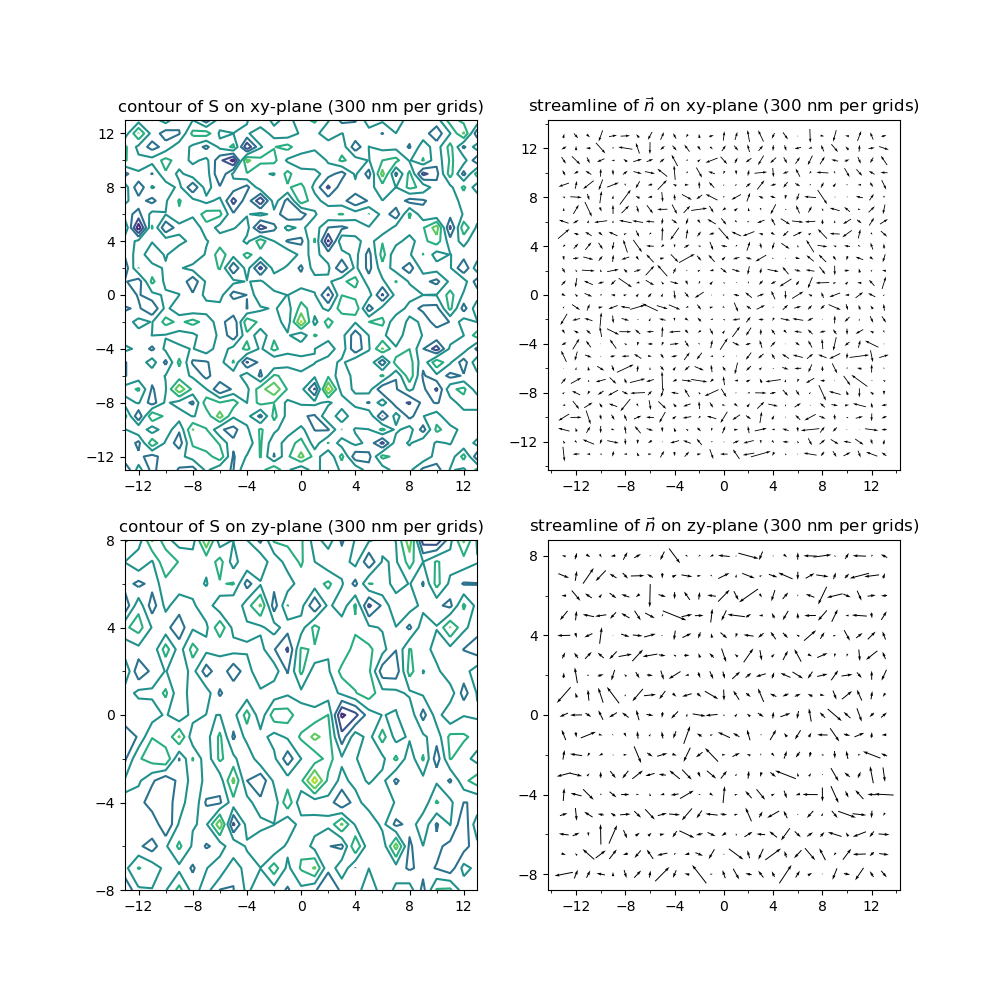
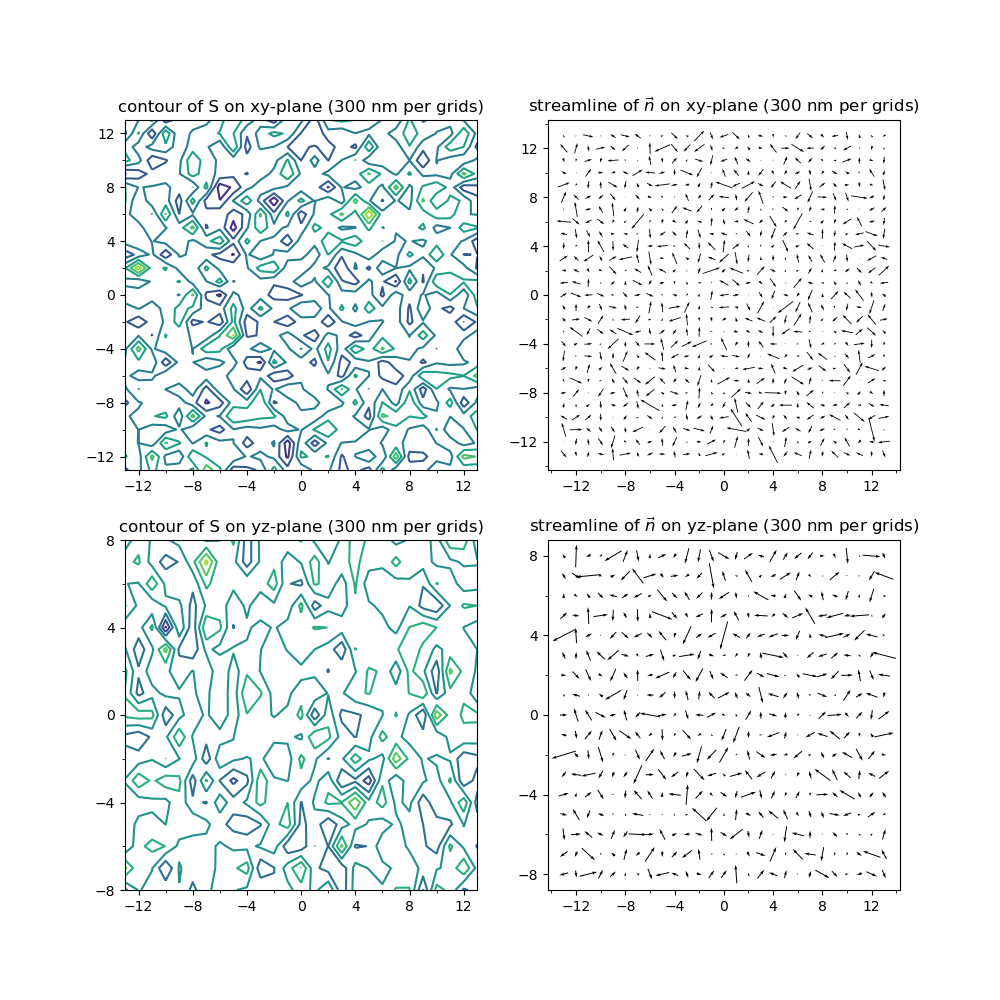
modify LCSample setters, rearange import paths

diff --git a/ldgsim/liqCrystal.py b/ldgsim/liqCrystal.py
@@ -2,12 +2,15 @@ import numpy as np
 import os, sys, time
 from datetime import datetime
 
-sys.path.append(os.path.join(os.path.dirname(__file__), '..'))
-from ldgsim import param as p
+import_path = os.path.join(os.path.dirname(__file__), '..')
+if import_path not in sys.path:
+	sys.path.append(import_path)
+
+from ldgsim import param as prm
 from ldgsim import field
 
 class LCSample(object):
-	def __init__(self, mesh_shape=p.mesh_shape, 
+	def __init__(self, mesh_shape=prm.mesh_shape, 
 				orientation=np.random.randn(3), order_degree=0.5, biaxiality=0):
 
 		self._S = field.ScalarField(np.ones(mesh_shape) * order_degree)
@@ -17,10 +20,10 @@ class LCSample(object):
 		self._Q = field.MatrixField(np.empty((*mesh_shape, 3, 3)))
 		self._h = field.MatrixField(np.empty((*mesh_shape, 3, 3)))
 
-		for i in range(p.z_nog):
-			for j in range(p.y_nog):
-				for k in range(p.x_nog):
-					self._r[i, j, k] = np.asarray([p.axis_z[i], p.axis_y[j], p.axis_x[k]])
+		for i in range(prm.z_nog):
+			for j in range(prm.y_nog):
+				for k in range(prm.x_nog):
+					self._r[i, j, k] = np.asarray([prm.axis_z[i], prm.axis_y[j], prm.axis_x[k]])
 
 	@property
 	def r(self): return self._r
@@ -38,10 +41,8 @@ class LCSample(object):
 	@n.setter
 	def n(self, value):
 		array = np.asarray(value)
-		if array.shape == (3,):
-			self._n[..., :] = array[:]
-		elif array.shape == self.n.shape:
-			self._n = array
+		if array.shape == (3,) or array.shape == self.n.shape:
+			self._n[:] = array
 		else:
 			raise ValueError(f'assign n with invalid shape {value.shape}')
 	
@@ -52,15 +53,15 @@ class LCSample(object):
 		if array.shape == ():
 			if not lb <= value <= ub:
 				raise ValueError(f'assign S with invalid value {value}, not in {[lb, ub]}')
-			self._S[...] = value
+			self._S[:] = value
 		elif array.shape == (1,):
 			if not lb <= value[0] <= ub:
 				raise ValueError(f'assign S with invalid value {value[0]}, not in {[lb, ub]}')
-			self._S[...] = value[0]
+			self._S[:] = value[0]
 		elif array.shape == self.S.shape:
 			if (array < lb).any() or (array > ub).any():
 				raise ValueError(f'assign S with invalid array, not in {[lb, ub]}')
-			self._S = field.ScalarField(array)
+			self._S[:] = array
 		else:
 			raise ValueError(f'assign S with invalid shape {value.shape}')
 	
@@ -71,15 +72,15 @@ class LCSample(object):
 		if array.shape == ():
 			if not lb <= value <= ub:
 				raise ValueError(f'assign P with invalid value {value}, not in {[lb, ub]}')
-			self._P[...] = value
+			self._P[:] = value
 		elif array.shape == (1,):
 			if not lb <= value[0] <= ub:
 				raise ValueError(f'assign P with invalid value {value[0]}, not in {[lb, ub]}')
-			self._P[...] = value[0]
+			self._P[:] = value[0]
 		elif array.shape == self.S.shape:
 			if (array < lb).any() or (array > ub).any():
 				raise ValueError(f'assign P with invalid array, not in {[lb, ub]}')
-			self._P = field.ScalarField(array)
+			self._P[:] = array
 		else:
 			raise ValueError(f'assign P with invalid shape {value.shape}')
 	
@@ -87,9 +88,17 @@ class LCSample(object):
 	def Q(self, value):
 		array = np.asarray(value)
 		if array.shape == (3, 3):
-			self._Q[..., :, :] = array[:, :]
+			if array - array.transpose():
+				raise ValueError('Q is not symmetric')
+			elif array.trace():
+				raise ValueError('Q is not traceless', np.trace(value))
+			self._Q[:] = array
 		elif self.Q.shape == array.shape:
-			self._Q = array
+			if not (array - array.transpose(0, -1, -2)).all():	# not symmetric
+				raise ValueError('Q is not symmetric')
+			elif self.trace(axis1=-2, axis2=-1).any():	# not traceless
+				raise ValueError('Q is not traceless')
+			self._Q[:] = array
 		else:
 			raise ValueError(f'assign Q with invalid shape {value.shape}')
 	

diff --git a/ldgsim/visual.py b/ldgsim/visual.py
@@ -2,8 +2,11 @@ import numpy as np
 import os, sys, time, datetime
 from matplotlib import pyplot as plt, ticker as tk
 
-sys.path.append(os.path.join(os.path.dirname(__file__), '..'))
-from ldgsim import param
+import_path = os.path.join(os.path.dirname(__file__), '..')
+if import_path not in sys.path:
+	sys.path.append(import_path)
+
+from ldgsim import param as prm
 from ldgsim import liqCrystal as LC
 
 def contourMap(axes, data, label=(), locator=(4, 2)):
@@ -29,23 +32,23 @@ def streamline(axes, data, label=(), locator=(4, 2)):
 	axes.yaxis.set_minor_locator(tk.MultipleLocator(locator[1]))
 
 def plot(lc=LC.LCSample(), z_layer=0, x_layer=0):
-	''' plot 2D figures of contour maps and streamline patterns '''
-	X, Y, Z = param.axis_x, param.axis_y, param.axis_z
+	''' plot 2D figures of contour maps and streamline patterns on xy-plane and yz-plane '''
+	X, Y, Z = prm.axis_x, prm.axis_y, prm.axis_z
 	S = lc.S
-	nx = lc.n[:, :, :, 0]
-	ny = lc.n[:, :, :, 1]
-	nz = lc.n[:, :, :, 2]
+	nx = lc.n[..., 0]
+	ny = lc.n[..., 1]
+	nz = lc.n[..., 2]
 	
 	fig, axes = plt.subplots(2, 2, figsize=(10, 10))
-	contourMap(axes[0, 0], (X, Y, S[z_layer, :, :]))
-	contourMap(axes[1, 0], (Y, Z, S[:, :, x_layer]))
-	streamline(axes[0, 1], (X, Y, nx[z_layer, :, :], ny[z_layer, :, :]))
-	streamline(axes[1, 1], (Y, Z, ny[:, :, x_layer], nz[:, :, x_layer]))
+	contourMap(axes[0, 0], (X, Y, S[z_layer, ...]))
+	contourMap(axes[1, 0], (Y, Z, S[..., x_layer]))
+	streamline(axes[0, 1], (X, Y, nx[z_layer, ...], ny[z_layer, ...]))
+	streamline(axes[1, 1], (Y, Z, ny[..., x_layer], nz[..., x_layer]))
 
 	axes[0, 0].set_title('contour of S on xy-plane (300 nm per grids)', fontsize=12)
-	axes[1, 0].set_title('contour of S on zy-plane (300 nm per grids)', fontsize=12)
+	axes[1, 0].set_title('contour of S on yz-plane (300 nm per grids)', fontsize=12)
 	axes[0, 1].set_title("streamline of $\\vec{n}$ on xy-plane (300 nm per grids)", fontsize=12)
-	axes[1, 1].set_title("streamline of $\\vec{n}$ on zy-plane (300 nm per grids)", fontsize=12)
+	axes[1, 1].set_title("streamline of $\\vec{n}$ on yz-plane (300 nm per grids)", fontsize=12)
 
 def save(prefix='image/test', show_path=False):
 	''' save 2D figures of contour maps and streamline patterns '''

diff --git a/ldgsim/main.py b/ldgsim/main.py
@@ -3,7 +3,9 @@ import matplotlib.pyplot as plt
 from mpl_toolkits.mplot3d import Axes3D
 
 import sys, os, time, datetime
-sys.path.insert(0, os.path.join(os.path.dirname(__file__), '..'))
+import_path = os.path.join(os.path.dirname(__file__), '..')
+if import_path not in sys.path:
+	sys.path.append(import_path)
 
 from ldgsim import utility as u
 from ldgsim import param as p

diff --git a/ldgsim/output.py b/ldgsim/output.py
@@ -1,7 +1,11 @@
 import numpy as np
 import matplotlib.pyplot as plt
 from mpl_toolkits.mplot3d import Axes3D
-import json
+import json, os, sys
+
+import_path = os.path.join(os.path.dirname(__file__), '..')
+if import_path not in sys.path:
+	sys.path.append(import_path)
 
 from ldgsim import param as p
 from ldgsim import mesh as m

diff --git a/ldgsim/field.py b/ldgsim/field.py
@@ -1,7 +1,10 @@
 import numpy as np
 import os, sys
 
-# sys.path.append(os.path.join(os.path.dirname(__file__), '..'))
+import_path = os.path.join(os.path.dirname(__file__), '..')
+if import_path not in sys.path:
+	sys.path.append(import_path)
+
 from ldgsim import param as prm
 
 class ScalarField(np.ndarray):

diff --git a/ldgsim/solver.py b/ldgsim/solver.py
@@ -1,4 +1,9 @@
 import numpy as np
+import os, sys
+
+import_path = os.path.join(os.path.dirname(__file__), '..')
+if import_path not in sys.path:
+	sys.path.append(import_path)
 
 from ldgsim import utility as u
 from ldgsim import param as p

diff --git a/ldgsim/cond.py b/ldgsim/cond.py
@@ -1,4 +1,8 @@
 import numpy as np
+import os, sys
+import_path = os.path.join(os.path.dirname(__file__), '..')
+if import_path not in sys.path:
+	sys.path.append(import_path)
 
 from ldgsim import utility as u
 from ldgsim import param as p

diff --git a/ldgsim/mesh.py b/ldgsim/mesh.py
@@ -1,4 +1,8 @@
 import numpy as np
+import os, sys
+import_path = os.path.join(os.path.dirname(__file__), '..')
+if import_path not in sys.path:
+	sys.path.append(import_path)
 
 from ldgsim import utility as u
 from ldgsim import param as p
